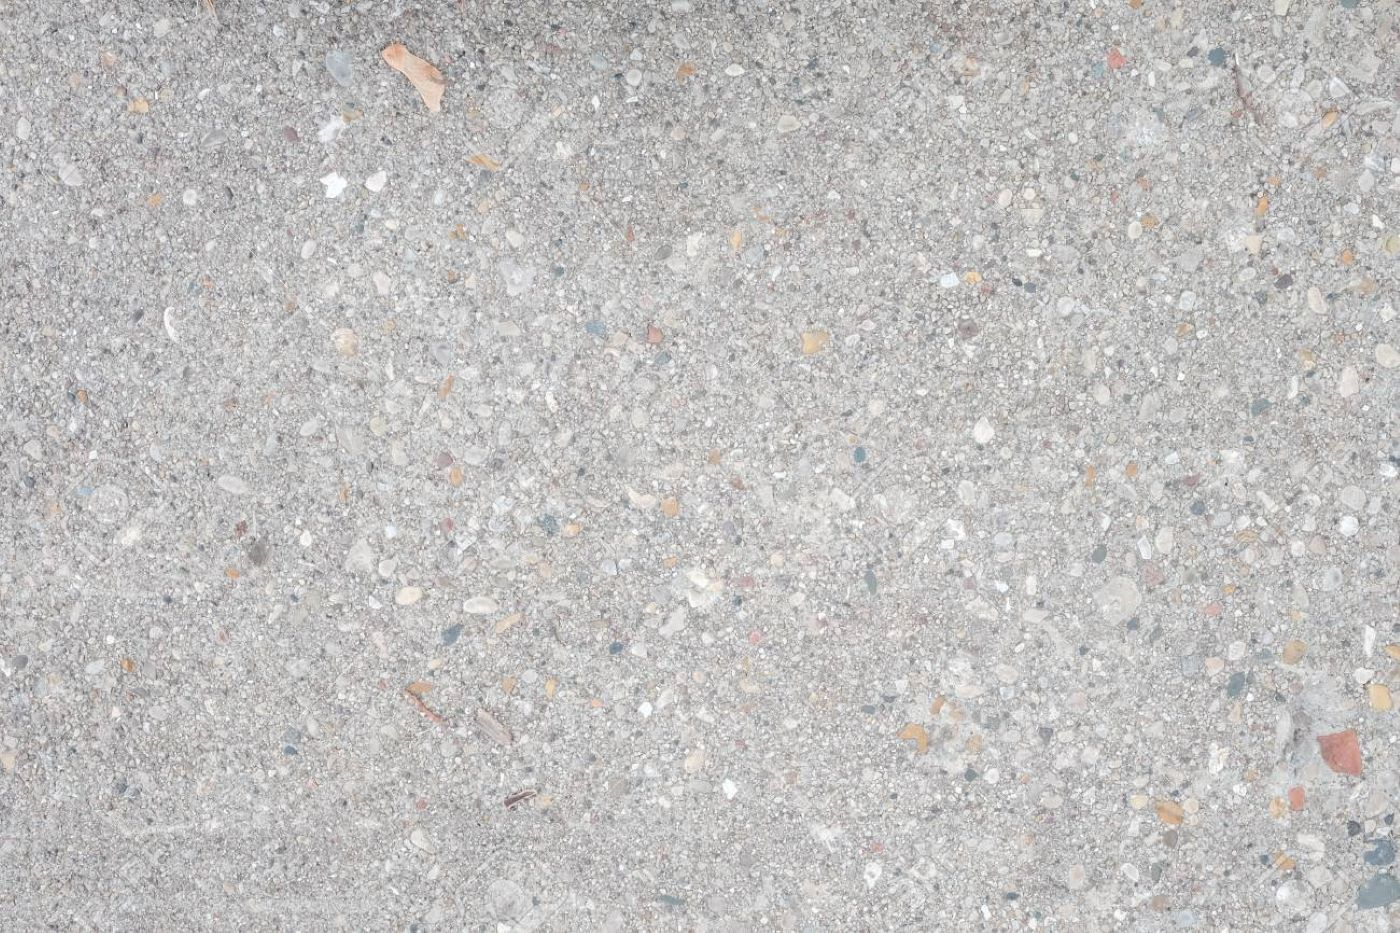
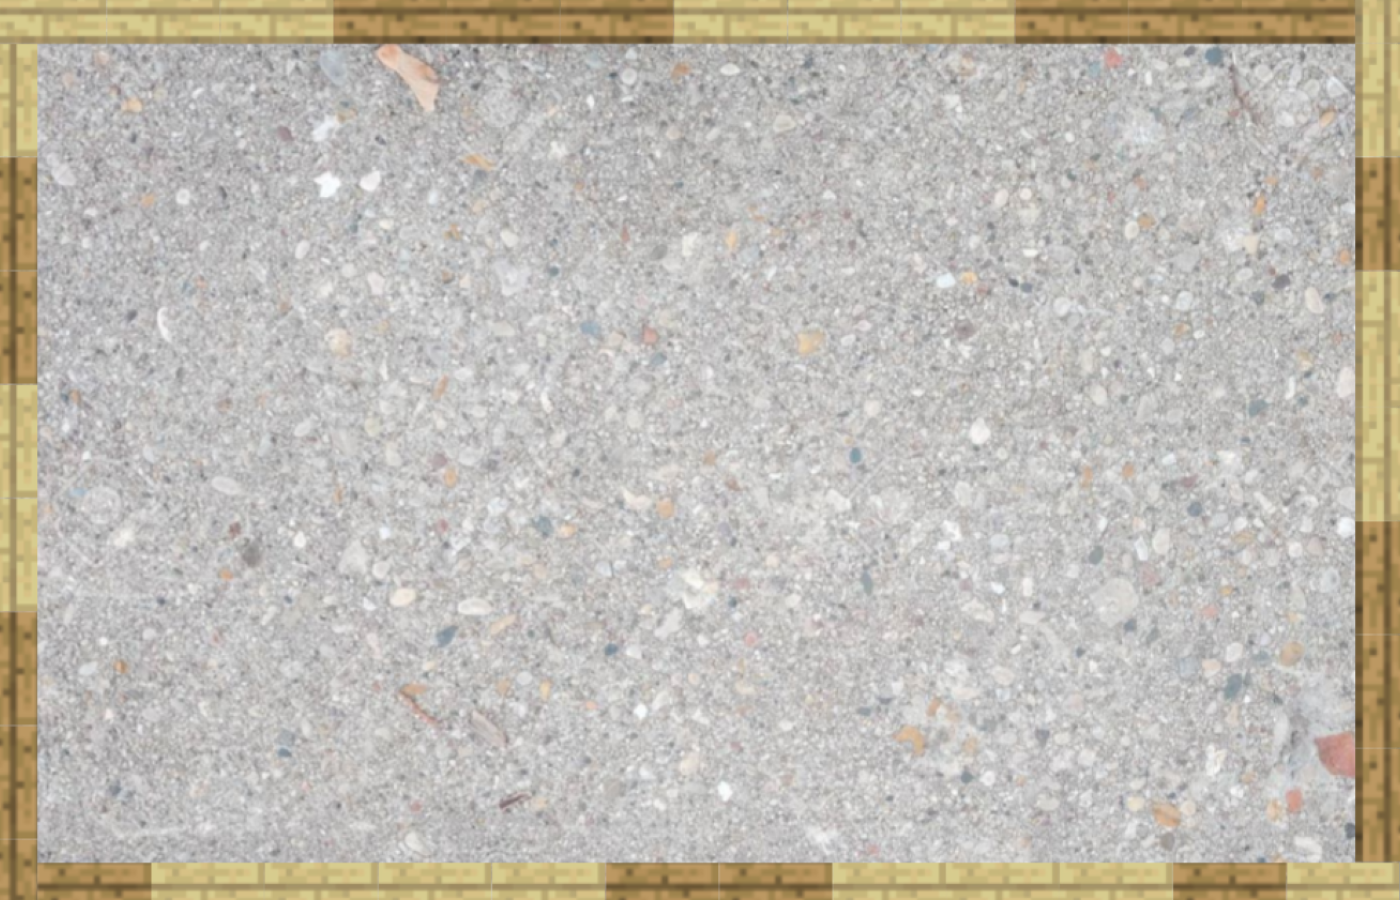
Changed Border

diff --git a/blueTank.py b/blueTank.py
@@ -66,14 +66,14 @@ class BlueTank(Tank):
         self.y += y
         self.turretX = self.x + (self.image.get_width() / 2) - (self.turret.get_width() / 2)
         self.turretY = self.y + (self.image.get_height() / 2) - 80
-        if self.x <= 0:
-            self.x = 0
-        elif self.x >= self.settings.screenSize[0] - self.image.get_width():
-            self.x = self.settings.screenSize[0] - self.image.get_width()
-        elif self.y <= 0:
-            self.y = 0
-        elif self.y >= self.settings.screenSize[1] - self.image.get_height():
-            self.y = self.settings.screenSize[1] - self.image.get_height()
+        if self.x <= 20:
+            self.x = 20
+        if self.x >= self.settings.screenSize[0] - self.image.get_width() - 25:
+            self.x = self.settings.screenSize[0] - self.image.get_width() - 25
+        if self.y <= 30:
+            self.y = 30
+        if self.y >= self.settings.screenSize[1] - self.image.get_height() - 25:
+            self.y = self.settings.screenSize[1] - self.image.get_height() - 25
         for block in self.blocks:
             if (block.x <= self.x + self.image.get_width() <= block.x + (block.size / 2)) and ((block.y < self.y < block.y + block.size) or (block.y < self.y + self.image.get_height() < block.y + block.size)): # Left border bounce
                 self.x = block.x - self.image.get_width() - 1

diff --git a/main.py b/main.py
@@ -20,9 +20,9 @@ class TanksGame:
         pygame.display.set_caption("Tanks")
         pygame.mouse.set_visible(False)
 
-        self.background = pygame.image.load('mapImages/concreteBackground.png')
+        self.background = pygame.image.load('mapImages/woodBackground.png')
 
-        self.levels = ['level1.json', 'level2.json']
+        self.levels = ['levels/level1.json', 'levels/level2.json']
 
         self.blocks = []
         self.destroyBlocks = []
@@ -40,6 +40,7 @@ class TanksGame:
 
     def runGame(self):
         level = 0
+        maxLevel = 2
 
         while self.gameRunning:
 
@@ -49,13 +50,13 @@ class TanksGame:
             self.bullets = []
             self.bombs = []
 
-            level = level % 2 ## retained under max level limit
+            level = level % maxLevel
 
             self.levelRunning = True
             self.loadLevel(level)
 
             while self.levelRunning and len(self.enemies) > 0:
-                pygame.time.delay(25)
+                pygame.time.delay(5)
 
                 keys = pygame.key.get_pressed()
 

diff --git a/bullet.py b/bullet.py
@@ -31,11 +31,11 @@ class Bullet:
     def updatePos(self, blocks):
         self.x += self.xVelocity
         self.y += self.yVelocity
-        if self.x <= 0 or self.x + 10 >= self.settings.screenSize[0]:
+        if self.x <= 30 or self.x + self.image.get_width() >= self.settings.screenSize[0] - 30:
             self.xVelocity *= -1
             self.rotateImage(self.xVelocity, self.yVelocity)
             self.bounceCount += 1
-        elif self.y <= 0 or self.y + 10 >= self.settings.screenSize[1]:
+        elif self.y <= 35 or self.y + self.image.get_height() >= self.settings.screenSize[1] - 30:
             self.yVelocity *= -1
             self.rotateImage(self.xVelocity, self.yVelocity)
             self.bounceCount += 1
